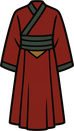
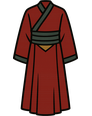
사람 그림이 깨져 있던 것 — 머리가 20px 떠 있었다
도포 열여섯 장을 **폭 74로 맞춰** 구웠더니 높이가 98~131로 제각각이 됐다.
도포 그림은 맨 윗줄이 곧 어깨선인데, 높이가 다르면 어깨가 파일마다 다른
자리에 온다. 머리는 고정 좌표(-72)에 놓고 있었으니 반드시 뜬다 —
삼류 도포(r0)에서 정확히 20px 떠 있었다.

폭이 아니라 **높이를 맞춰** 다시 구웠다(92x116 한 판). 이제 열여섯 장의
어깨가 한 줄에 선다. 폭은 도포마다 다른 게 맞다 — 백학 도포는 넓고
혈의는 좁다.

맞춤값을 하나에서 뽑아 쓰게 했다(BODY_W → BODY_TOP → 머리·어깨·머리끈).
숫자 하나를 고치면 셋이 같이 따라온다. 전에는 넷이 따로 놀았다.

2.6배로 키워 보고(_artcheck.html) 더 찾은 것 셋:
- 어깨가 벡터 뼈대(-70)와 그림 도포(-67)에서 다른 자리다. 한 좌표로 쓰니
  무기가 그림 쪽에서 도포 안에 파묻혔다. 갈라 뒀다.
- 삿갓·복면·민머리에까지 붉은 머리끈이 날렸다. 그림 머리는 띠가 그려진
  것과 아닌 것이 있다 — 띠·상투에만 남긴다.
- 손(살색 원)을 하나 더 그리고 있었다. 도포에 소매가 이미 그려져 있어서
  가슴에 구슬이 붙은 꼴이었다. 그림일 때는 안 그린다.

_artcheck.html은 남겨 둔다. 화면에서 60px인 걸 눈으로 보고 고치려 하면
또 놓친다 — 2.6배로 늘어놓고 봐야 보인다.

확인: 경지 10종 x 무기 7종 x 머리 6종 전부 눈으로 봄, 콘솔 오류 0건.

diff --git a/js/battle.js b/js/battle.js
@@ -1,6 +1,6 @@
 // 전투 화면 캔버스 렌더러 (수묵화 무협풍). 게임 이벤트를 받아 연출만 담당한다.
 import { zoneOf, RANKS, GRADES, PETS, SKILLS, FIELD_SQUASH } from './data.js';
-import { artReady, putArt, loadArt, FIT, headKey, bodyKey, weaponKey } from './art.js';
+import { artReady, putArt, loadArt, FIT, ART_SHOULDER, ART_BAND, headKey, bodyKey, weaponKey } from './art.js';
 import { fxReady, putFx, loadFx, zoneTile } from './fx.js';
 import { fmt } from './fmt.js';
 
@@ -1180,15 +1180,24 @@ export function drawFighter(ctx, x, y, look = {}, o = {}) {
   drawOrbit(false);
 
   // 머리끈 끝자락 (뒤로 날림)
-  if (look.band || !look.head || look.head === 'band' || look.head === 'topknot') {
+  // 그림 머리에는 띠가 **그려져 있는 것과 없는 것**이 있다. 삿갓·복면·민머리
+  // 까지 붉은 끈이 날려서 머리 뒤 허공에 리본이 붙은 꼴이었다.
+  const bandHead = artReady() && !jiang
+    ? (look.head === 'band' || look.head === 'topknot')
+    : (look.band || !look.head || look.head === 'band' || look.head === 'topknot');
+  if (bandHead) {
     ctx.strokeStyle = look.band || '#7f1d1d';
-    ctx.lineWidth = 3;
+    ctx.lineWidth = artReady() && !jiang ? 2 : 3;
     ctx.lineCap = 'round';
+    // 벡터 머리는 -90이 뒤통수지만 그림 머리는 더 낮다. 한 좌표로 쓰면
+    // 그림 쪽에서 끈이 정수리 위 허공에서 시작한다.
+    const bd = artReady() && !jiang ? ART_BAND : { x: -8, y: -90 };
     for (let i = 0; i < 2; i++) {
       ctx.beginPath();
-      ctx.moveTo(-8, -90);
+      ctx.moveTo(bd.x, bd.y);
       const wv = Math.sin(t * 6 + i) * 4;
-      ctx.quadraticCurveTo(-22, -88 + wv + i * 4, -34 - (o.run ? 6 : 0), -82 + wv * 1.5 + i * 6);
+      ctx.quadraticCurveTo(bd.x - 9, bd.y + 2 + wv + i * 3,
+        bd.x - 17 - (o.run ? 5 : 0), bd.y + 8 + wv * 1.5 + i * 5);
       ctx.stroke();
     }
   }
@@ -1282,8 +1291,12 @@ export function drawFighter(ctx, x, y, look = {}, o = {}) {
   }
 
   // 앞팔 + 무기
+  // 어깨가 벡터 뼈대와 그림 도포에서 서로 다른 자리다. 벡터는 상체가
+  // -74..-44지만 그림 도포는 어깨가 -67이고 소매가 이미 그려져 있다.
+  // 한 좌표로 둘 다 쓰면 한쪽에서 무기가 몸 밖에 뜬다.
   ctx.save();
-  ctx.translate(7, -70);
+  const sh0 = artReady() && !jiang ? ART_SHOULDER : { x: 7, y: -70 };
+  ctx.translate(sh0.x, sh0.y);
   let ang;
   if (jiang) ang = -1.5;
   else if (weapon === 'spear') ang = -1.45 + lunge * 0.15;
@@ -1293,8 +1306,10 @@ export function drawFighter(ctx, x, y, look = {}, o = {}) {
     ctx.fillStyle = shade(robeNow, -0.05);
     ctx.beginPath(); ctx.moveTo(-5, -2); ctx.lineTo(7, -2); ctx.lineTo(9, 18); ctx.lineTo(-7, 18); ctx.fill(); // 소매
   }
-  ctx.fillStyle = skin;
-  circle(ctx, 1, 22, 4.5);
+  if (!(artReady() && !jiang)) {
+    ctx.fillStyle = skin;
+    circle(ctx, 1, 22, 4.5);
+  }
   ctx.translate(1, 22);
   const wk = artReady() ? weaponKey(weapon) : null;
   if (!(wk && putArt(ctx, wk, FIT.weapon))) {

diff --git a/js/art.js b/js/art.js
@@ -50,11 +50,22 @@ const FILES = [
 // 그림을 어디에 얼마만큼 그릴지. 뼈대 좌표계 그대로다.
 // w는 폭(높이는 그림 비율대로), (x, y)는 **그림의 가운데 아래**가 놓일 자리.
 // 처음엔 몸통 46·검 11로 넣었는데 화면에서 재 보니 사람이 뚱뚱하고 검이 몸만 했다.
+// 도포 열여섯 장이 전부 92x116으로 구워져 있다(높이를 맞춰 어깨선을 한 줄에
+// 세운다). 그래서 아래 숫자 하나가 열여섯 장 전부에 같이 맞는다.
+// 폭만 맞춰 굽던 때는 높이가 98~131이라 어깨가 제각각이었고, 머리를 고정
+// 좌표(-72)에 두니 **20px 떠 있었다.** 그게 '몸이 깨졌다'의 정체다.
+export const BODY_W = 50;                    // 그려지는 높이는 50 x 116/92 = 63
+export const BODY_TOP = -4 - BODY_W * 116 / 92;   // 어깨선 (= -67)
 export const FIT = {
-  body: { w: 33, x: 0, y: -6 },     // 아랫자락이 발목을 덮는다
-  head: { w: 25, x: 1, y: -72 },    // 목 위
-  weapon: { w: 9, x: 0, y: 5 },     // 손 기준(앞팔 회전 안에서 그린다)
+  body: { w: BODY_W, x: 0, y: -4 },          // 아랫자락이 발목을 덮는다
+  head: { w: 25, x: 1, y: BODY_TOP + 4 },    // 턱을 옷깃 안으로 4px 넣는다
+  weapon: { w: 13, x: 0, y: 2 },             // 손 기준(앞팔 회전 안에서 그린다)
 };
+// 그림 몸통의 어깨 — 소매가 이미 그려져 있어 벡터 뼈대(-70)와 자리가 다르다
+export const ART_SHOULDER = { x: 9, y: BODY_TOP + 9 };
+// 머리끈 꼬리가 나오는 자리. 벡터 머리는 -90이었는데 그림 머리는 -63에서
+// 시작해 21px이라 -90이면 **정수리 위 허공**에서 끈이 뻗어 나왔다.
+export const ART_BAND = { x: -5, y: BODY_TOP + 4 - 14 };
 
 const img = {};
 let ready = false;

diff --git a/_artcheck.html b/_artcheck.html
@@ -1,0 +1,31 @@
+<!doctype html><meta charset="utf-8"><title>조각 맞춤 확인</title>
+<style>body{background:#2a241b;margin:0;color:#e7e0d0;font:12px sans-serif}
+canvas{display:block}</style>
+<canvas id="c" width="1200" height="640"></canvas>
+<script type="module">
+import { drawFighter } from './js/battle.js';
+import { loadArt, artReady } from './js/art.js';
+import { RANKS } from './js/data.js';
+const WP = ['sword','saber','spear','axe','claw','dagger','fist'];
+const HD = ['band','topknot','hat','hood','bald', undefined];
+const c = document.getElementById('c'), x = c.getContext('2d');
+function go() {
+  x.fillStyle = '#2a241b'; x.fillRect(0, 0, c.width, c.height);
+  x.fillStyle = '#e7e0d0'; x.fillText('art=' + artReady(), 8, 14);
+  // 경지 도포 10종 — 같은 머리·무기로
+  for (let r = 0; r < 10; r++) {
+    x.save(); x.translate(70 + r * 112, 230); x.scale(2.6, 2.6);
+    drawFighter(x, 0, 0, RANKS[r].look, { t: 0, weapon: 'sword' });
+    x.restore();
+    x.fillText('r' + r, 56 + r * 112, 250);
+  }
+  // 무기 7종 + 머리 6종
+  for (let i = 0; i < WP.length; i++) {
+    x.save(); x.translate(70 + i * 112, 500); x.scale(2.6, 2.6);
+    drawFighter(x, 0, 0, { ...RANKS[3].look, head: HD[i % HD.length] }, { t: 0, weapon: WP[i] });
+    x.restore();
+    x.fillText(WP[i] + '/' + (HD[i % HD.length] || '기본'), 40 + i * 112, 520);
+  }
+}
+loadArt(go); go(); setTimeout(go, 600); setTimeout(go, 1500);
+</script>

diff --git a/sw.js b/sw.js
@@ -1,5 +1,5 @@
 // 앱 껍데기를 캐시해 오프라인에서도 열리게 한다. 온라인이면 항상 새 파일을 먼저 받는다.
-const CACHE = 'ifu-v40';
+const CACHE = 'ifu-v41';
 const SHELL = [
   './', 'index.html', 'css/style.css', 'manifest.webmanifest',
   'js/main.js', 'js/game.js', 'js/data.js', 'js/battle.js', 'js/net.js', 'js/fmt.js', 'js/firebase-config.js',

diff --git a/js/data.js b/js/data.js
@@ -2,7 +2,7 @@
 
 // 지금 돌고 있는 빌드. 설정 창에 적어 둔다 — 기기가 옛 판을 들고 있는지
 // 한눈에 보려고 둔다. sw.js의 CACHE와 같은 값으로 맞춘다.
-export const BUILD = 'ifu-v40';
+export const BUILD = 'ifu-v41';
 
 export const SAVE_VERSION = 4;
 export const OFFLINE_CAP_SEC = 12 * 3600;
